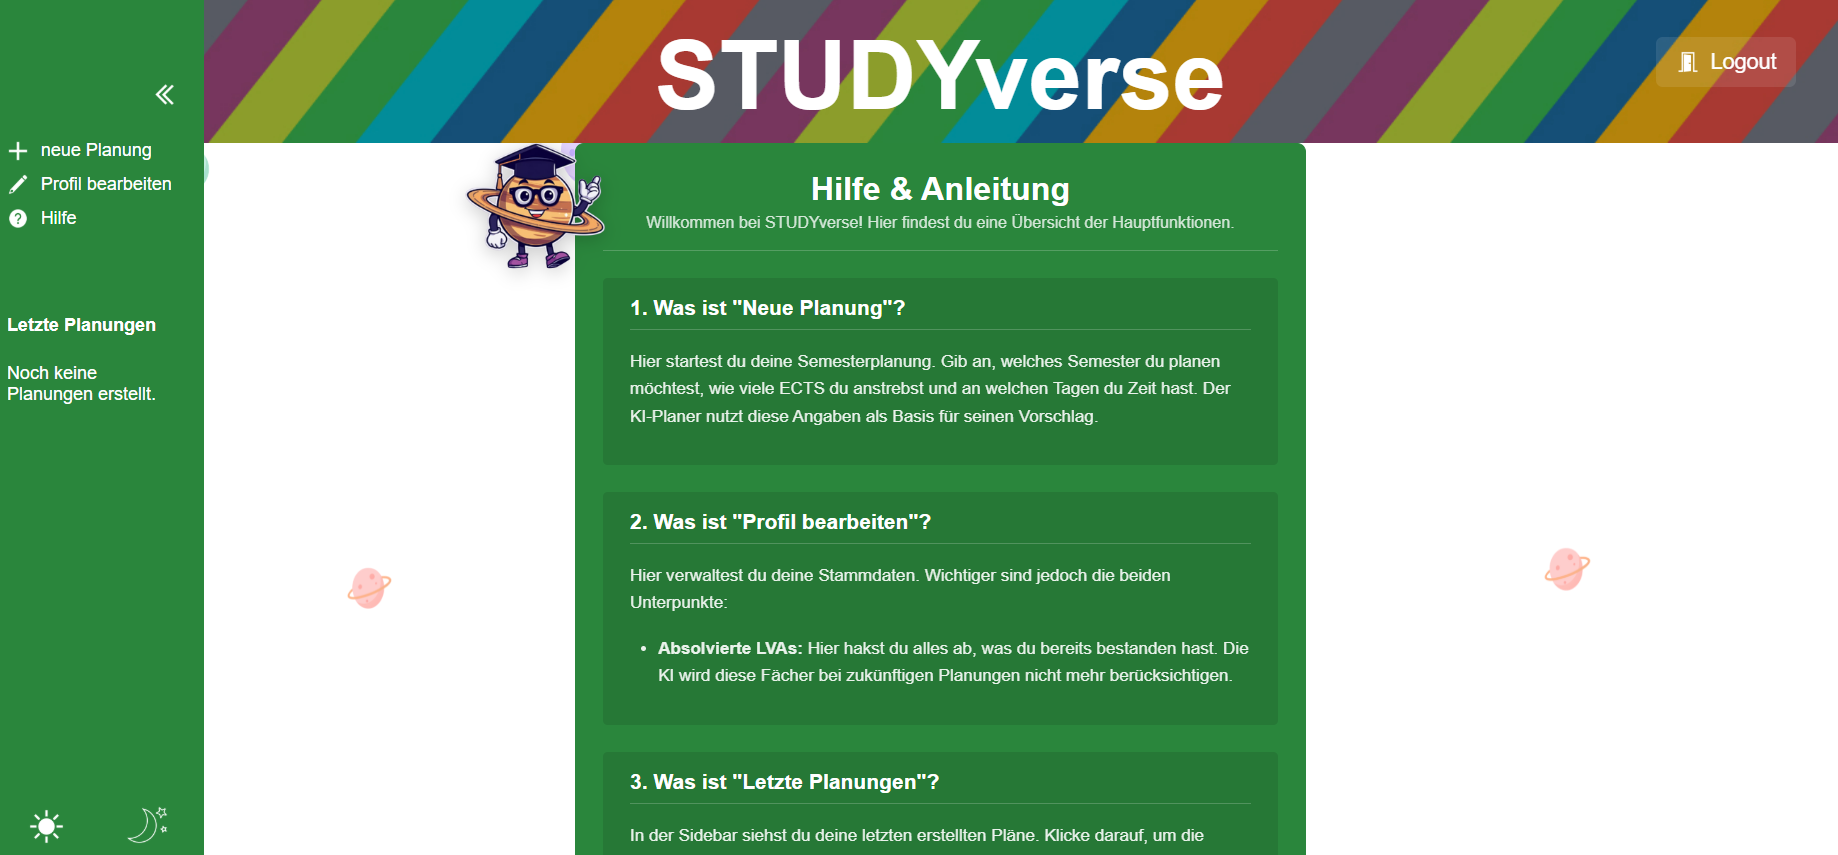
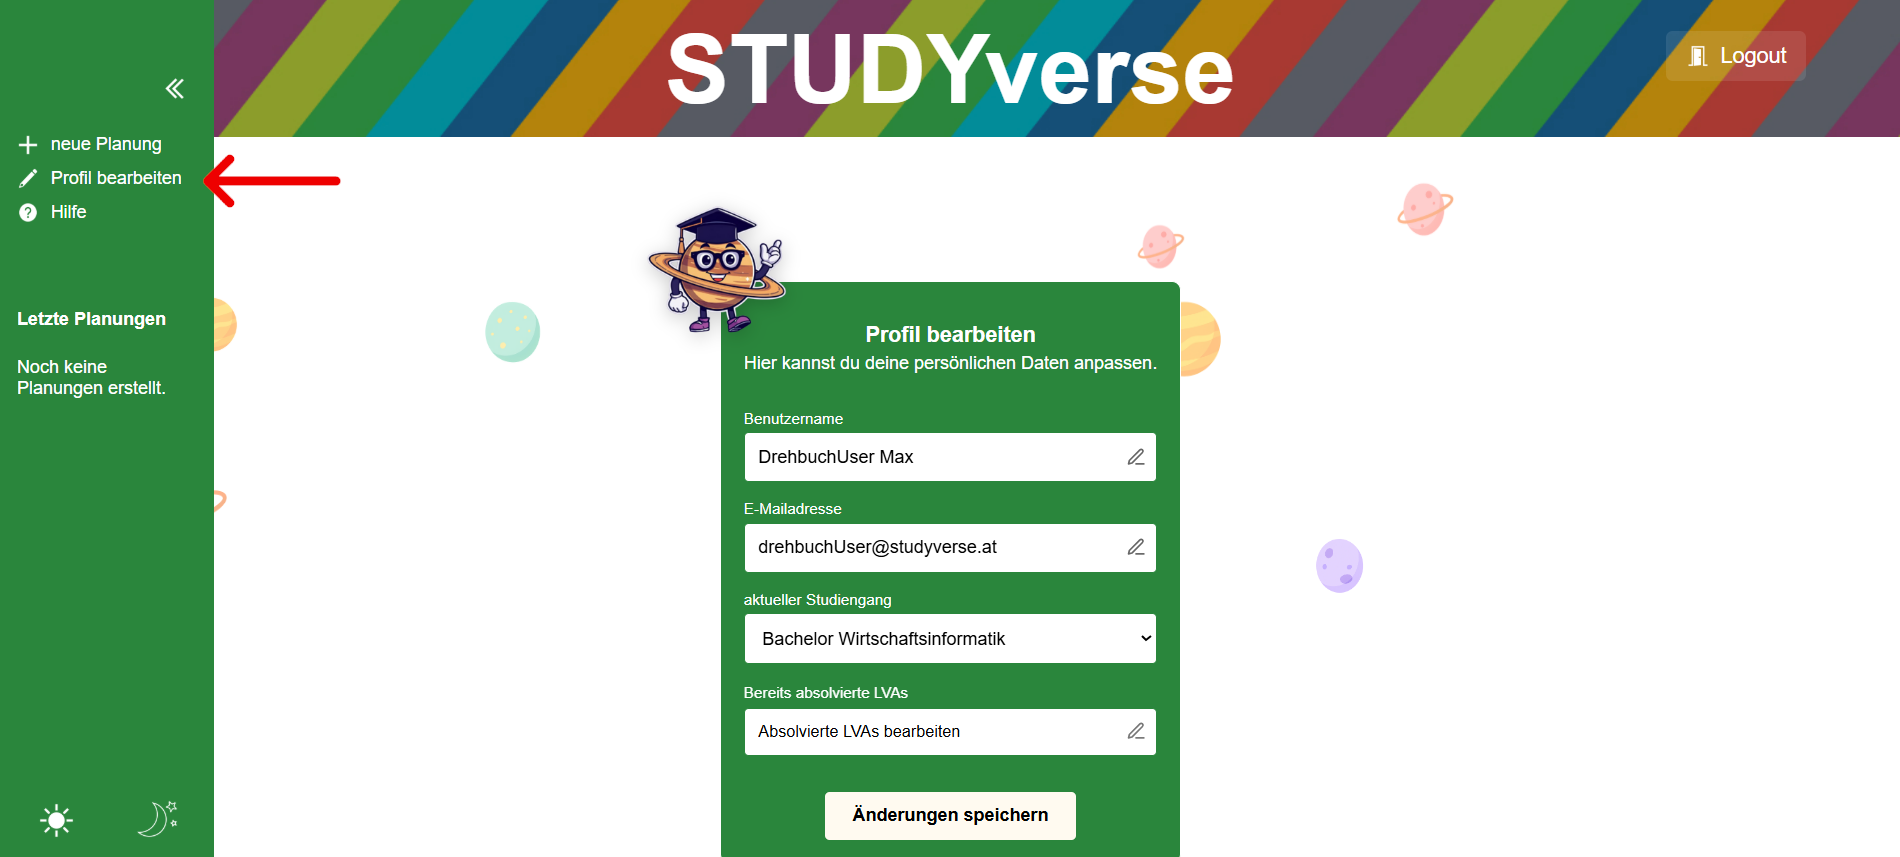
Worked on playbook.md

diff --git a/frontend/src/app/pages/profile/profile-edit.component.html b/frontend/src/app/pages/profile/profile-edit.component.html
@@ -39,7 +39,7 @@
         </div>
 
         <div class="form-group input-with-icon">
-          <label for="email">E-Mailadresse</label>
+          <label for="email">E-Mail-Adresse</label>
           <div class="input-wrapper">
             <input
               type="text"

diff --git a/docs/playbook.md b/docs/playbook.md
@@ -1,23 +1,21 @@
 # Playbook: StudyVerse Walkthrough
-## 1. Nutzverwaltung & Onboarding
+## 1 Nutzverwaltung & Onboarding
 Ziel: Sicherstellen, dass Authentifizierung und Profileinstellung funktionieren.
 ### 1.1 Neuen User anlegen
 Auf "Registrieren" klicken.
-<img width="1889" height="851" alt="image" src="https://github.com/user-attachments/assets/e11375b4-dea9-43aa-8672-5882ff07c92d" />
-
+![Benutzer anlegen](playbook_images/registerUser.png)
 Valide Daten eingeben (Benutzername, E-Mail-Adresse, Passwort, Passwort wiederholen).
-<img width="633" height="712" alt="image" src="https://github.com/user-attachments/assets/e2387006-1b9a-486c-8d96-90a3c89faab9" />
-
+Hinweis: mit einem Klick auf das Auge kann man das eingegebene Passwort lesen.
+![Benutzerdaten anlegen](playbook_images/createUser.png)
 Auf "zur Fachauswahl" klicken.
 Bereits absolvierte Fächer auswählen.
-<img width="1126" height="695" alt="image" src="https://github.com/user-attachments/assets/682a5d27-75cd-42cd-baf0-4bd11dcd3b01" />
-
 Auf "Speichern & Fertig" klicken.
 **erwartetes Ergebnis:** User wird eingeloggt und auf das Dashboard/Onboarding weitergeleitet.
 
 ## 1.2 Userdaten bearbeiten
 Klick auf "Profil bearbeiten" in der Sidebar links.
-![img.png](playbook_images/editProfile.png)
+![Profil bearbeiten](playbook_images/editProfile.png)
 Bearbeite den Usernamen.
 Speichere die Änderungen mit Klick auf "Änderungen speichern"
-![img.png](img.png)
+
+## 
